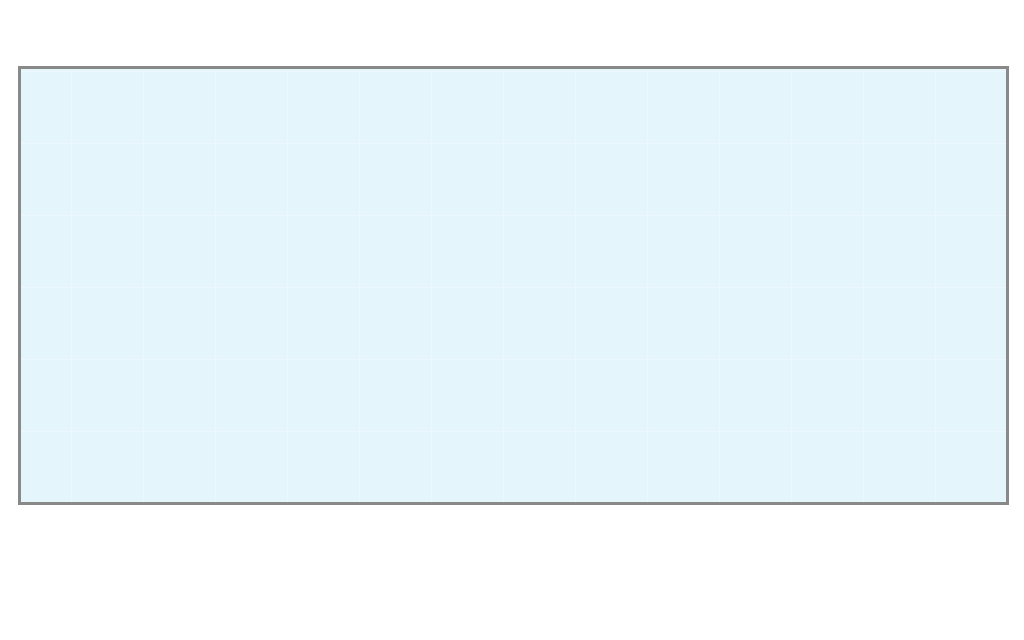
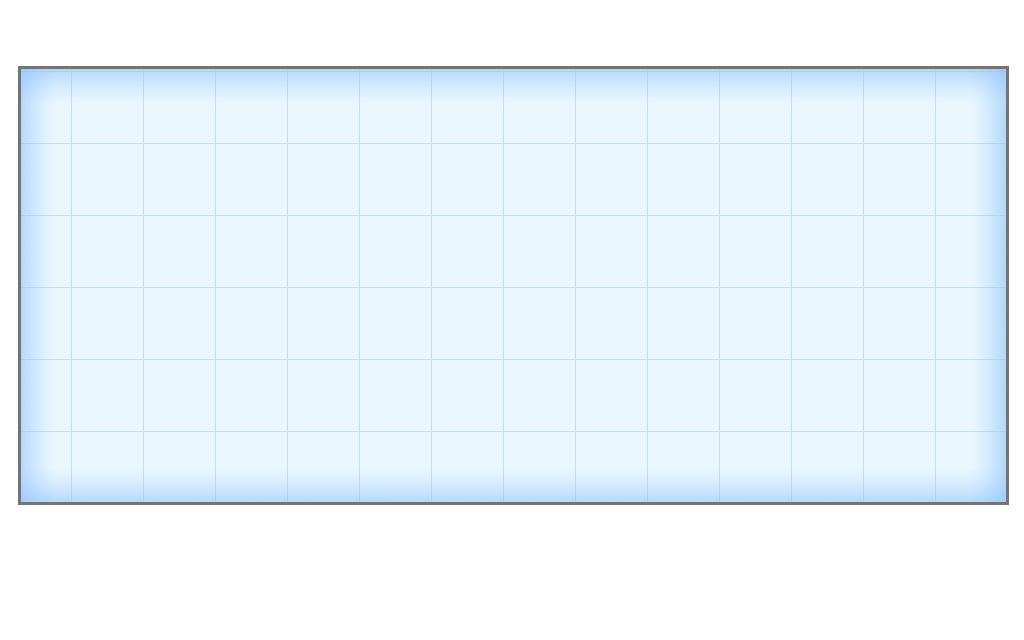
Tweaked parallax settings; Updated galaxy grid image;

Changed region(s): [[0.0, 0.0938, 1.0, 0.7812]]

diff --git a/core/src/se300/destinytactics/game/scenes/GalaxyScene.java b/core/src/se300/destinytactics/game/scenes/GalaxyScene.java
@@ -27,7 +27,7 @@ public class GalaxyScene extends Stage{
 	Fleet test2  = new Fleet();
 	private Group sectors, sectorNames;
 	
-	public static final int PARALLAX = 20;
+	public static final int PARALLAX = -10;
 	
 	
 	public GalaxyScene(FitViewport vp, Skin skin, GameScene myGame) {
@@ -44,7 +44,7 @@ public class GalaxyScene extends Stage{
 
 		this.addActor(background);
 		//background.setFillParent(true);
-		background.setSize(getWidth() + 2*PARALLAX, getHeight() + 2*PARALLAX);
+		background.setSize(getWidth() + PARALLAX, getHeight() + PARALLAX);
 
 		gridOverlay.setFillParent(true);
 		gridOverlay.setTouchable(Touchable.disabled);
